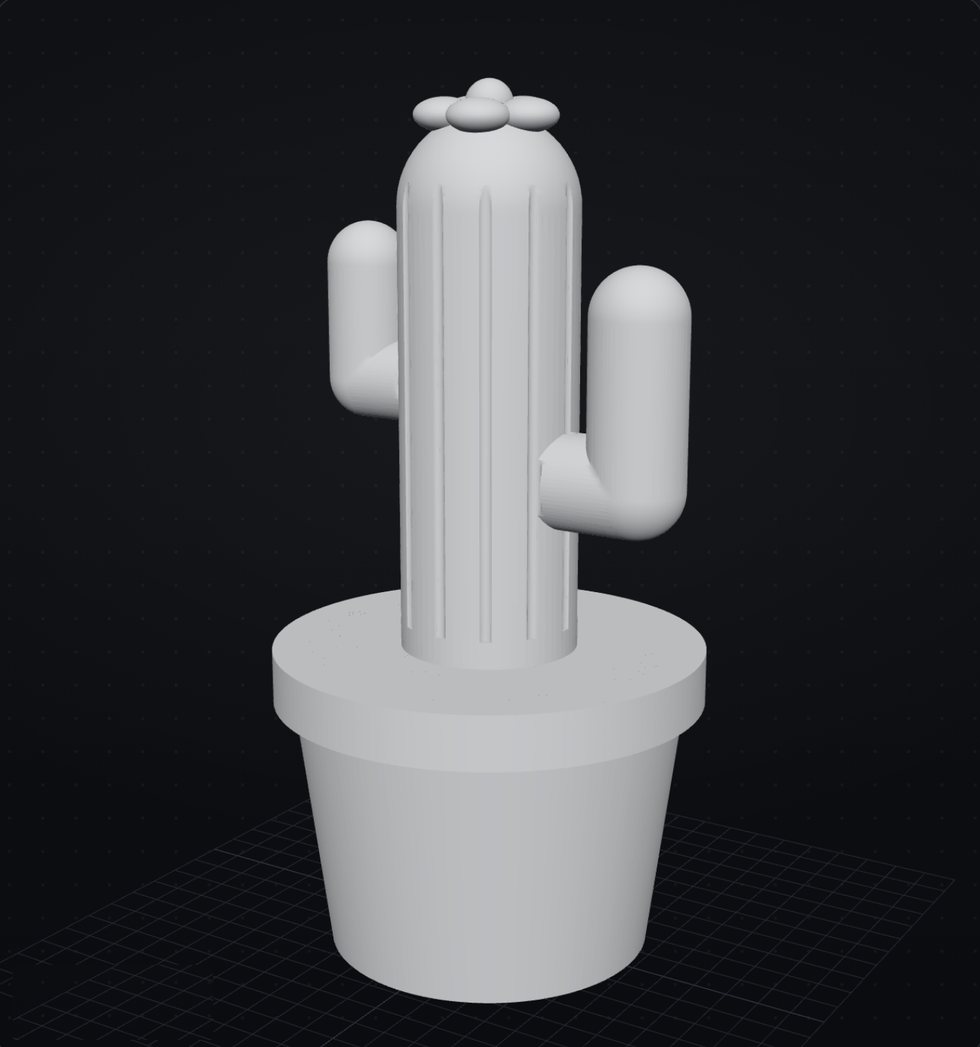
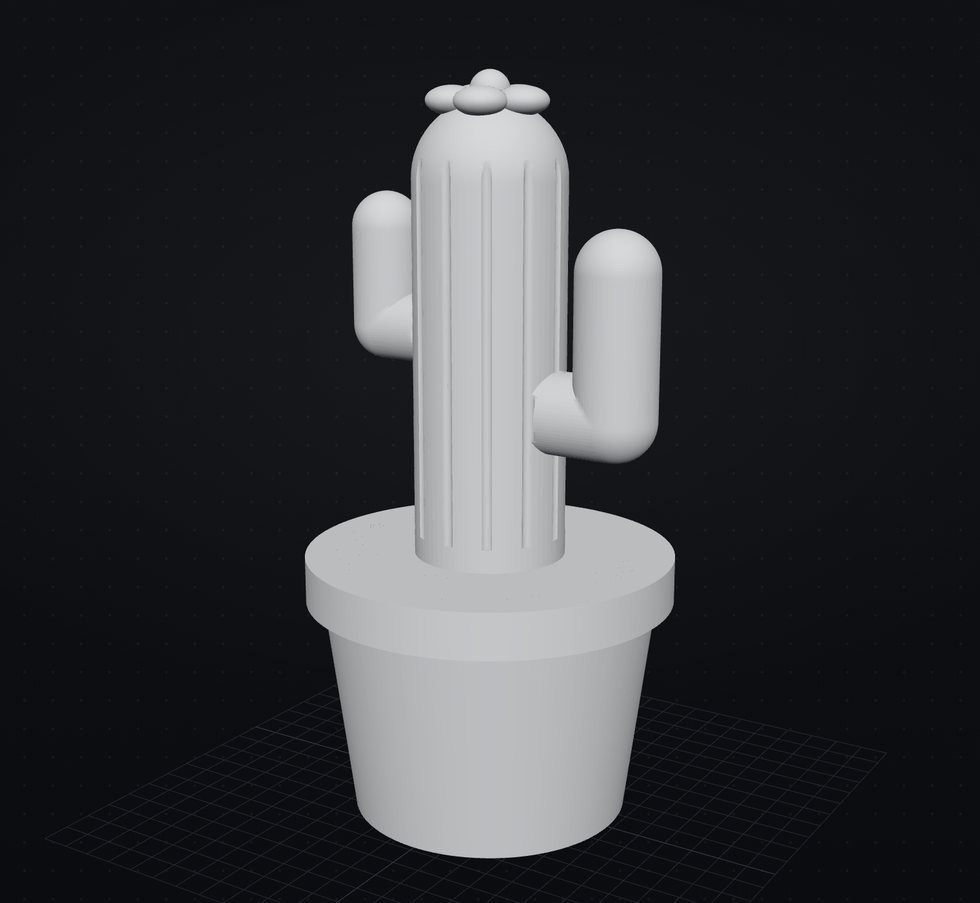
Landing: 4-color cactus (soil in pot color), filament slots and legend to match
Claude-Session: https://claude.ai/code/session_015thdPVs6qyhi56jzz38Mqk

diff --git a/app/index.html b/app/index.html
@@ -72,14 +72,13 @@
           <p class="counter" id="counter" hidden></p>
         </div>
         <figure class="stage">
-          <img src="img/cactus-hero.jpg" alt="A potted cactus painted green, terracotta, brown, pink and yellow in the STLware editor" width="1200" height="1282" fetchpriority="high" />
+          <img src="img/cactus-hero.jpg" alt="A potted cactus painted green, terracotta, pink and yellow in the STLware editor" width="1200" height="1105" fetchpriority="high" />
           <div class="ams" aria-label="Filament slots used in this model">
             <b>Filament slots</b>
             <span class="slot"><i style="--c:#2e8b47"></i><span>1 · Green</span></span>
             <span class="slot"><i style="--c:#b5582f"></i><span>2 · Terracotta</span></span>
-            <span class="slot"><i style="--c:#4d3324"></i><span>3 · Soil brown</span></span>
-            <span class="slot"><i style="--c:#f55a74"></i><span>4 · Pink</span></span>
-            <span class="slot"><i style="--c:#f4d53f"></i><span>5 · Yellow</span></span>
+            <span class="slot"><i style="--c:#f55a74"></i><span>3 · Pink</span></span>
+            <span class="slot"><i style="--c:#f4d53f"></i><span>4 · Yellow</span></span>
           </div>
         </figure>
       </div>
@@ -115,12 +114,12 @@
         </div>
       </div>
       <figure class="wipe" style="margin-bottom:0" aria-label="The same model before and after painting in STLware">
-        <img src="img/cactus-gray.jpg" alt="A cactus model as downloaded, in one gray color" width="980" height="1047" />
+        <img src="img/cactus-gray.jpg" alt="A cactus model as downloaded, in one gray color" width="980" height="903" />
         <!-- not lazy: this image starts fully clipped, and a lazy image that is never "visible" never loads -->
-        <img class="after" src="img/cactus-painted.jpg" alt="The same cactus painted green, terracotta, brown, pink and yellow" width="980" height="1047" />
+        <img class="after" src="img/cactus-painted.jpg" alt="The same cactus painted green, terracotta, pink and yellow" width="980" height="903" />
         <span class="edge" aria-hidden="true"></span>
       </figure>
-      <div class="wipe-legend"><span>As downloaded · 1 color</span><span>After STLware · 6 colors, ready to slice</span></div>
+      <div class="wipe-legend"><span>As downloaded · 1 color</span><span>After STLware · 4 colors, ready to slice</span></div>
       <div class="stats">
         <div class="stat"><b>700k+</b><span>triangles open in seconds</span></div>
         <div class="stat"><b>STL · 3MF · OBJ</b><span>formats you can open</span></div>

diff --git a/src/landing.css b/src/landing.css
@@ -118,13 +118,13 @@ section { padding: 120px 0; border-top: 1px solid var(--line); }
 .problem p { color: var(--muted); }
 
 /* solution: automatic before / after */
-.wipe { position: relative; margin-top: 64px; border-radius: 22px; overflow: hidden; border: 1px solid var(--line); background: #0b0c0f; aspect-ratio: 980 / 1047; max-width: 640px; margin-inline: auto; }
+.wipe { position: relative; margin-top: 64px; border-radius: 22px; overflow: hidden; border: 1px solid var(--line); background: #0b0c0f; aspect-ratio: 980 / 903; max-width: 760px; margin-inline: auto; }
 .wipe img { position: absolute; inset: 0; width: 100%; height: 100%; object-fit: cover; }
 .wipe .after { animation: wipe 9s ease-in-out infinite; }
 .wipe .edge { position: absolute; top: 0; bottom: 0; width: 2px; background: #fff; box-shadow: 0 0 18px 2px rgba(255,255,255,.5); animation: edge 9s ease-in-out infinite; }
 @keyframes wipe { 0%, 10% { clip-path: inset(0 0 0 100%); } 45%, 75% { clip-path: inset(0 0 0 0); } 100% { clip-path: inset(0 0 0 100%); } }
 @keyframes edge { 0%, 10% { left: 100%; opacity: 1; } 45% { left: 0; opacity: 1; } 46%, 75% { left: 0; opacity: 0; } 76% { opacity: 1; } 100% { left: 100%; opacity: 1; } }
-.wipe-legend { max-width: 640px; margin-inline: auto; display: flex; justify-content: space-between; gap: 12px; flex-wrap: wrap; margin-top: 16px; font: 13px var(--mono); color: var(--muted); }
+.wipe-legend { max-width: 760px; margin-inline: auto; display: flex; justify-content: space-between; gap: 12px; flex-wrap: wrap; margin-top: 16px; font: 13px var(--mono); color: var(--muted); }
 .stats { display: grid; grid-template-columns: repeat(4, 1fr); margin-top: 56px; border-top: 1px solid var(--line); }
 .stat { padding: 28px 24px 0 0; }
 .stat + .stat { padding-left: 24px; border-left: 1px solid var(--line); }
